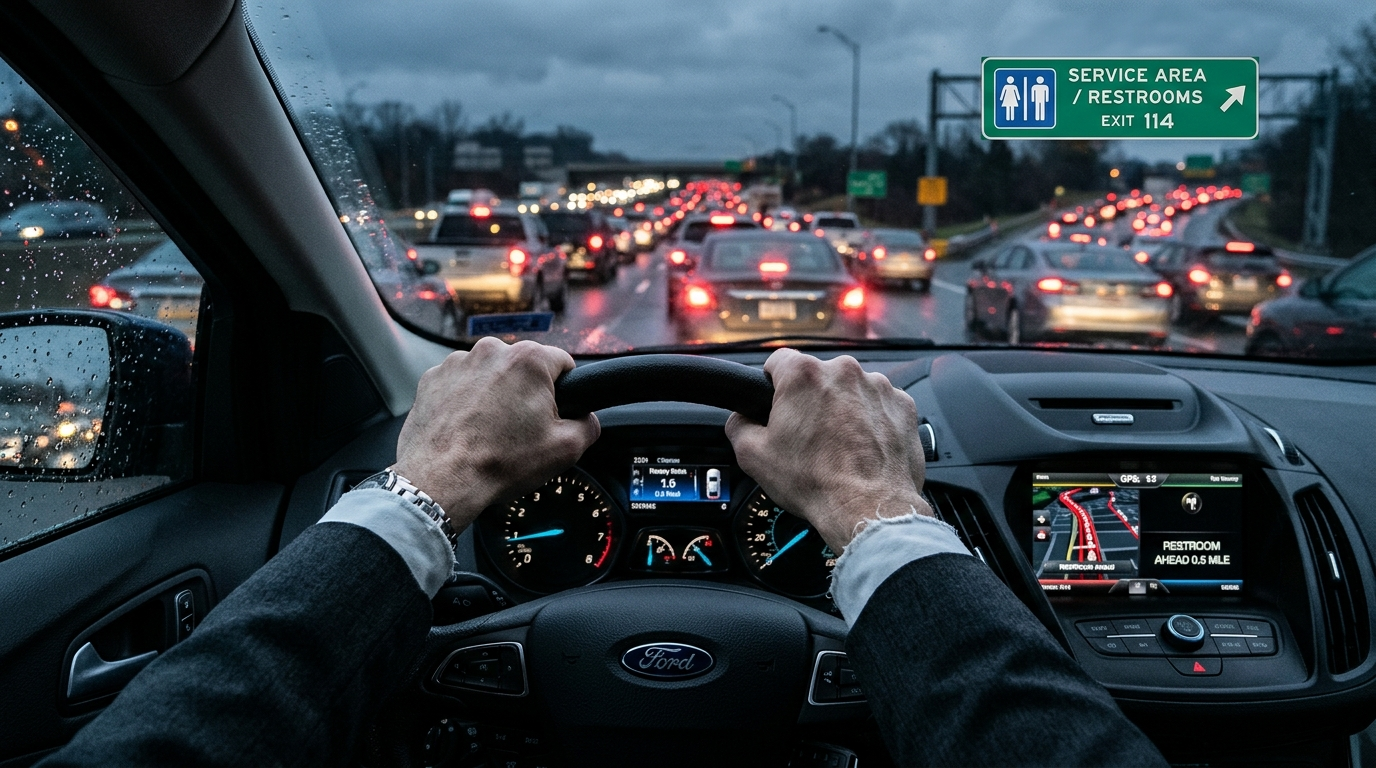
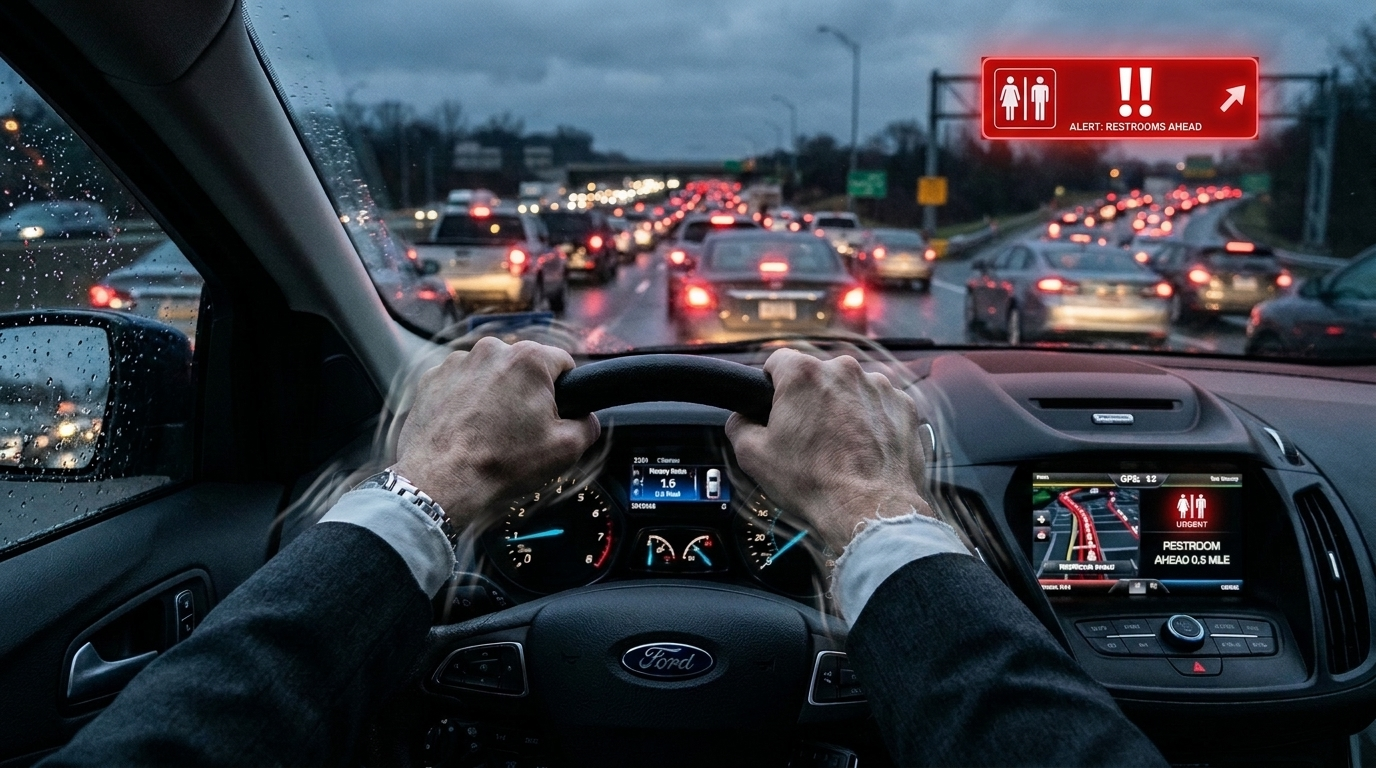
Update prostate Card 09 with handsome model features, trembling hands POV, and red restroom exclamation alert

diff --git a/homepage/wordpress-prostate.html b/homepage/wordpress-prostate.html
@@ -6265,9 +6265,9 @@
         <article class="project-details-item is-motion-plate" data-fullscreen>
           <span class="tiny-card-num-badge">09</span>
           <div class="plate-media-inner">
-            <div class="motion-video-stage" data-frames="https://raw.githubusercontent.com/ajwei0508-cpu/bareun-homepage/main/homepage/prostate_minimal_card9_trouble_1_nocturia.jpg?v=c9v5|https://raw.githubusercontent.com/ajwei0508-cpu/bareun-homepage/main/homepage/prostate_minimal_card9_trouble_2_driving.jpg?v=c9v5|https://raw.githubusercontent.com/ajwei0508-cpu/bareun-homepage/main/homepage/prostate_minimal_card9_trouble_3_pelvicpain.jpg?v=c9v5" data-duration="6.6">
-              <div class="motion-frame-layer frame-layer-a" style="background-image: url('https://raw.githubusercontent.com/ajwei0508-cpu/bareun-homepage/main/homepage/prostate_minimal_card9_trouble_1_nocturia.jpg?v=c9v5');"></div>
-              <div class="motion-frame-layer frame-layer-b" style="background-image: url('https://raw.githubusercontent.com/ajwei0508-cpu/bareun-homepage/main/homepage/prostate_minimal_card9_trouble_2_driving.jpg?v=c9v5'); opacity: 0;"></div>
+            <div class="motion-video-stage" data-frames="https://raw.githubusercontent.com/ajwei0508-cpu/bareun-homepage/main/homepage/prostate_minimal_card9_trouble_1_nocturia.jpg?v=c9v6|https://raw.githubusercontent.com/ajwei0508-cpu/bareun-homepage/main/homepage/prostate_minimal_card9_trouble_2_driving.jpg?v=c9v6|https://raw.githubusercontent.com/ajwei0508-cpu/bareun-homepage/main/homepage/prostate_minimal_card9_trouble_3_pelvicpain.jpg?v=c9v6" data-duration="6.6">
+              <div class="motion-frame-layer frame-layer-a" style="background-image: url('https://raw.githubusercontent.com/ajwei0508-cpu/bareun-homepage/main/homepage/prostate_minimal_card9_trouble_1_nocturia.jpg?v=c9v6');"></div>
+              <div class="motion-frame-layer frame-layer-b" style="background-image: url('https://raw.githubusercontent.com/ajwei0508-cpu/bareun-homepage/main/homepage/prostate_minimal_card9_trouble_2_driving.jpg?v=c9v6'); opacity: 0;"></div>
               <canvas class="plate-fx-canvas" data-fx="sunlight-bokeh"></canvas>
               <div class="motion-progress-track"><div class="motion-progress-fill"></div></div>
             </div>

diff --git a/homepage/prostate.html b/homepage/prostate.html
@@ -6248,9 +6248,9 @@
         <article class="project-details-item is-motion-plate" data-fullscreen>
           <span class="tiny-card-num-badge">09</span>
           <div class="plate-media-inner">
-            <div class="motion-video-stage" data-frames="prostate_minimal_card9_trouble_1_nocturia.jpg?v=c9v5|prostate_minimal_card9_trouble_2_driving.jpg?v=c9v5|prostate_minimal_card9_trouble_3_pelvicpain.jpg?v=c9v5" data-duration="6.6">
-              <div class="motion-frame-layer frame-layer-a" style="background-image: url('prostate_minimal_card9_trouble_1_nocturia.jpg?v=c9v5');"></div>
-              <div class="motion-frame-layer frame-layer-b" style="background-image: url('prostate_minimal_card9_trouble_2_driving.jpg?v=c9v5'); opacity: 0;"></div>
+            <div class="motion-video-stage" data-frames="prostate_minimal_card9_trouble_1_nocturia.jpg?v=c9v6|prostate_minimal_card9_trouble_2_driving.jpg?v=c9v6|prostate_minimal_card9_trouble_3_pelvicpain.jpg?v=c9v6" data-duration="6.6">
+              <div class="motion-frame-layer frame-layer-a" style="background-image: url('prostate_minimal_card9_trouble_1_nocturia.jpg?v=c9v6');"></div>
+              <div class="motion-frame-layer frame-layer-b" style="background-image: url('prostate_minimal_card9_trouble_2_driving.jpg?v=c9v6'); opacity: 0;"></div>
               <canvas class="plate-fx-canvas" data-fx="sunlight-bokeh"></canvas>
               <div class="motion-progress-track"><div class="motion-progress-fill"></div></div>
             </div>

diff --git a/homepage/build-story-detail-pages.js b/homepage/build-story-detail-pages.js
@@ -1558,9 +1558,9 @@ const PAGES = [
         sub: '새벽마다 서너 번 깨고 · 운전·회의 중 급한 빈뇨 · 묵직한 회음부 통증과 활력 저하 누구에게 말하기도 힘들어 가장 답답하고 곤란한 순간입니다.',
         caption: '[남성 갱년기 & 배뇨 장애로 곤란한 순간] 무력해진 활력 · 운전·회의 중 급한 빈뇨 · 새벽 야간뇨로 가장 답답하고 곤란한 순간입니다.',
         frames: [
-          'prostate_minimal_card9_trouble_1_nocturia.jpg?v=c9v5',
-          'prostate_minimal_card9_trouble_2_driving.jpg?v=c9v5',
-          'prostate_minimal_card9_trouble_3_pelvicpain.jpg?v=c9v5'
+          'prostate_minimal_card9_trouble_1_nocturia.jpg?v=c9v6',
+          'prostate_minimal_card9_trouble_2_driving.jpg?v=c9v6',
+          'prostate_minimal_card9_trouble_3_pelvicpain.jpg?v=c9v6'
         ],
         fx: 'sunlight-bokeh',
         durationSec: 6.6
